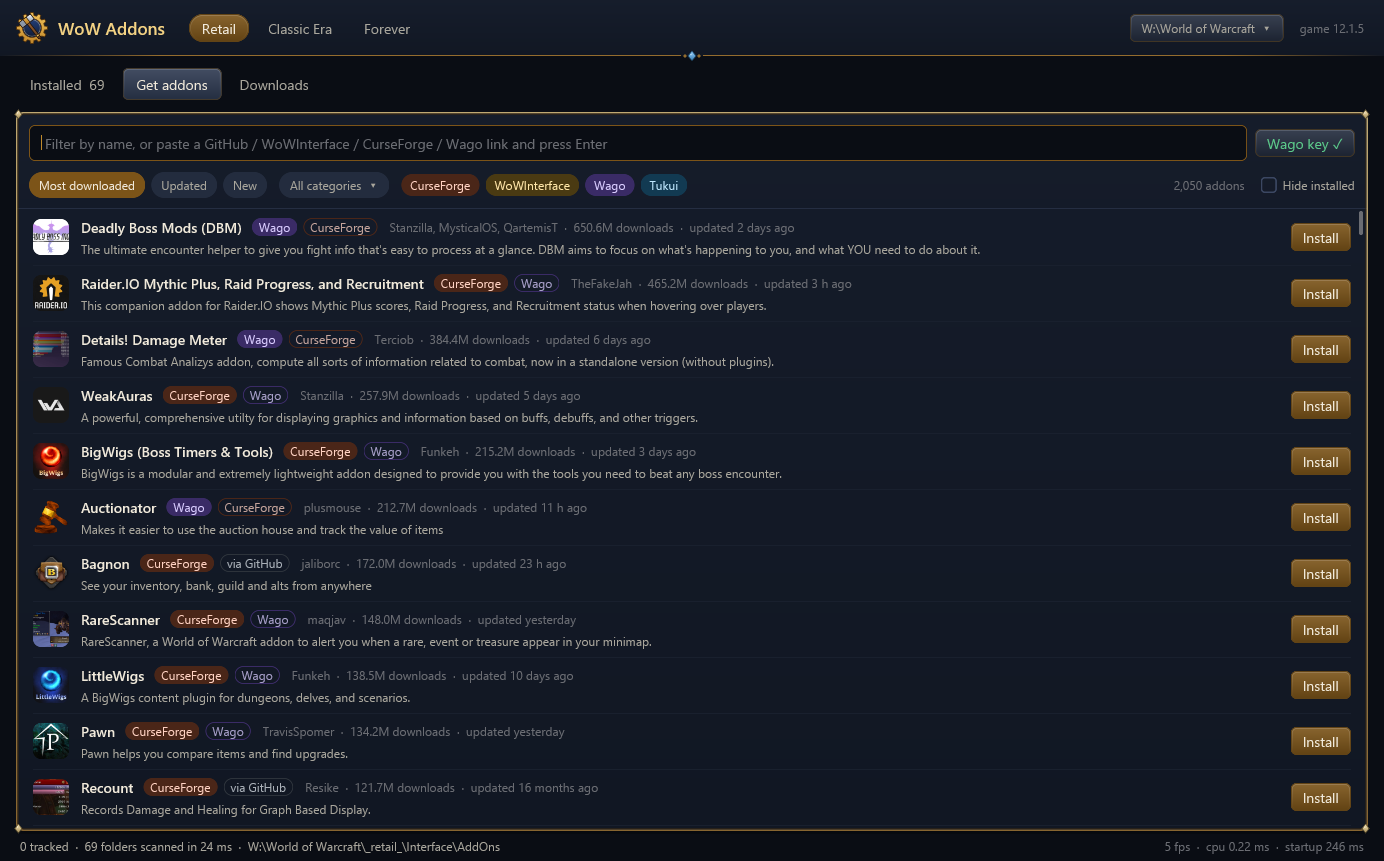
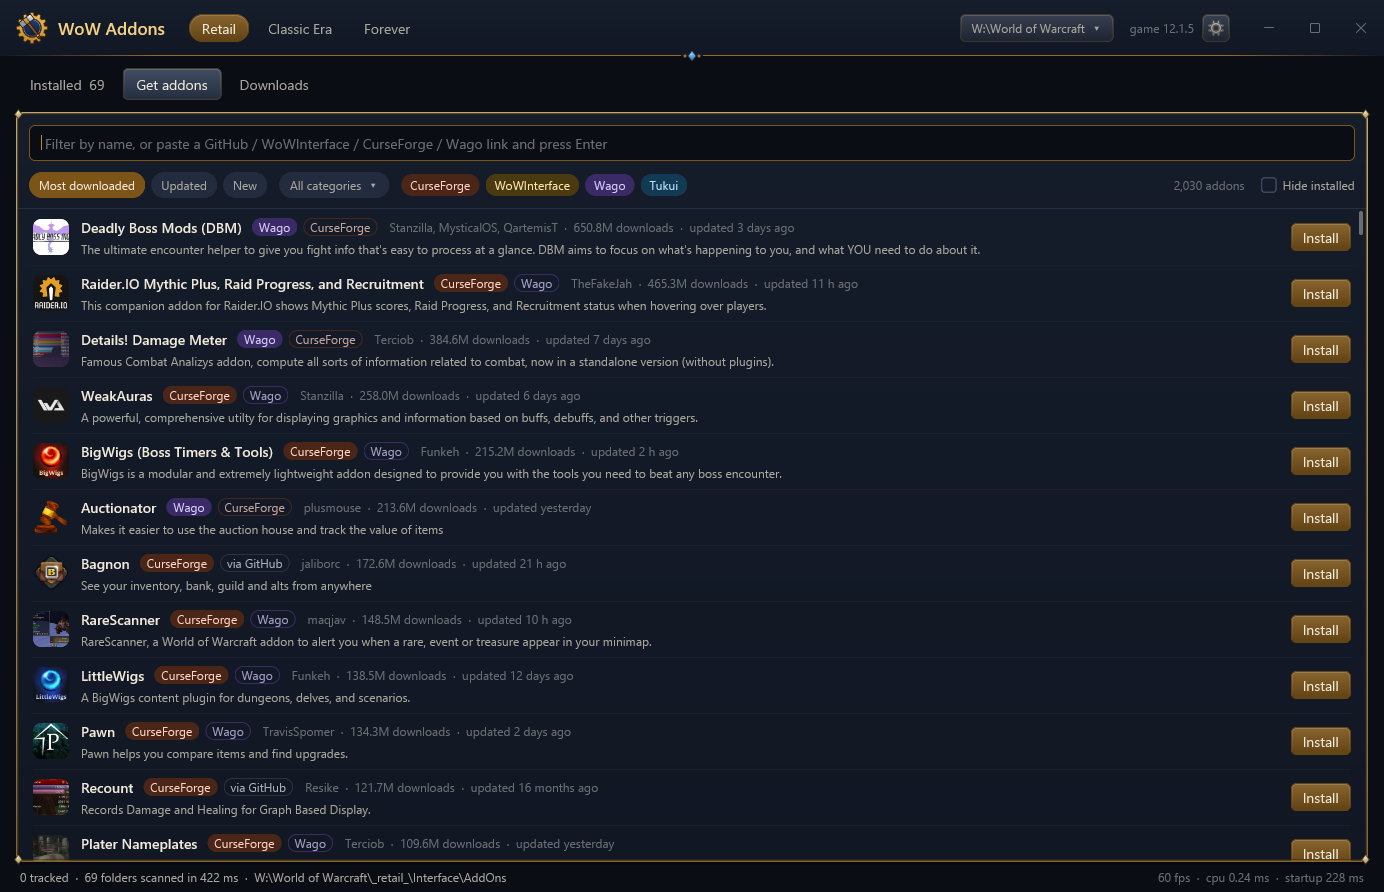
Update the README, license and changelog

Changed region(s): [[0.0, 0.0, 0.9942, 0.9965], [0.6835, 0.0, 0.9321, 0.0604], [0.4971, 0.0604, 0.5282, 0.0906]]

diff --git a/README.md b/README.md
@@ -55,10 +55,14 @@ download count and age, with links to its page, source code, issue tracker and d
 ## Updates in one click
 
 wam recognizes the addons you already have, including ones you installed by hand or with another
-manager, and tells you which have updates. **Update all** takes care of them; addons you've edited
-yourself are left alone unless you say otherwise.
+manager, and tells you which have updates. Click an update's new version to read what changed in
+every release since yours before you install it. **Update all** takes care of them; addons you've
+edited yourself are left alone unless you say otherwise, and addons you've **pinned** stay at their
+version until you unpin them.
 
-![Installed addons with available updates](screenshots/installed.png)
+![Installed addons with available updates, and one pinned at its version](screenshots/installed.png)
+
+![What's new: the release notes of every version since the installed one](screenshots/changes.png)
 
 ## Built to be trusted with your UI
 
@@ -103,7 +107,7 @@ certutil -hashfile wam.exe SHA256
 
 - Windows 10 (version 1803 or later) or Windows 11, 64-bit.
 - Wago: searching and installing from Wago needs your own Wago API key, which comes with a Wago
-  subscription. Paste it under **Get addons > Wago key**. Everything else works without an account.
+  subscription. Paste it in **Settings** (the cog at the top). Everything else works without an account.
 - Addons whose authors allow downloads only from CurseForge's site open that page in a small window
   (Microsoft Edge WebView2, built into Windows 11 and current Windows 10), or in your browser.
 

diff --git a/CHANGES.md b/CHANGES.md
@@ -1,5 +1,24 @@
 # Changes
 
+## 1.1.0
+
+- **What's new**: click an update's new version to read the release notes of every version since
+  yours, then update from there.
+- **Pin** an addon to keep it at its version: Update all leaves it alone until you unpin it, and
+  you still see what's available. `wamcli pin` / `unpin` do the same.
+- **Settings**: the cog at the top opens them (or Ctrl+,): your Wago key, which CurseForge key is in
+  use, the WoW folder, wam's folders and backups, and the version.
+- **A cleaner window**: the header is now the title bar, with its own minimize, maximize and close
+  buttons; dragging, snapping and Windows 11's snap layouts work as before.
+- **Wago**: browse Wago's addons by category, with their pictures, descriptions, screenshots and
+  changelogs.
+- **One row per addon**: an addon on both CurseForge and Wago shows once, with both sources.
+- Better changelogs: Markdown that authors paste into CurseForge now reads as text.
+- When CurseForge or Wago says wam is asking too often, wam waits as long as they ask before trying
+  again, and says so.
+- `wamcli changes <addon>` prints what an update would bring; `wamcli version` prints the version.
+- The exes now carry their version (Properties > Details).
+
 ## 1.0.0
 
 The first public release.
